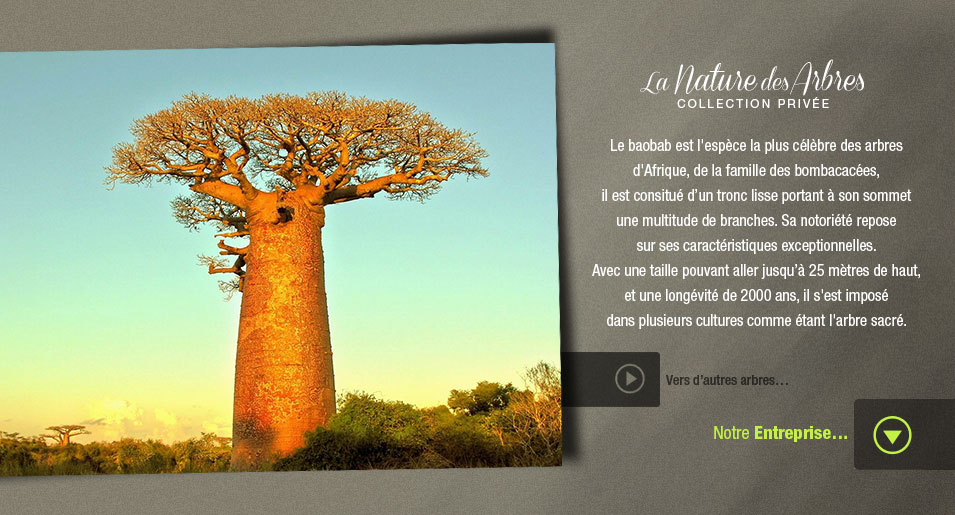
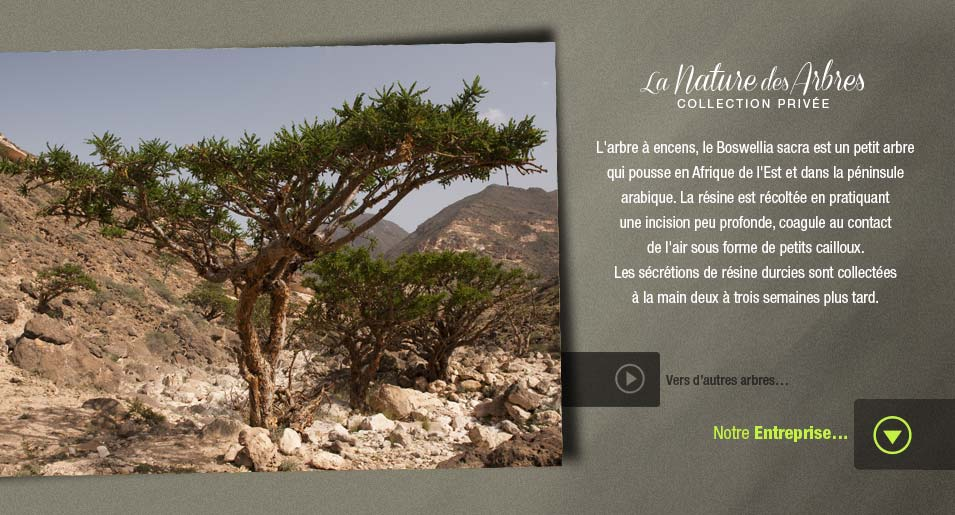
Changement visuel accueil

diff --git a/index.html b/index.html
@@ -28,6 +28,9 @@
       <div id="myCarousel" class="carousel slide">
         <div class="carousel-inner">
     <div class="active item">
+      <div style="background: url('assets/img/visu3.jpg'); width: 955px; height: 515px"></div>
+    </div>
+    <div class="item">
       <div style="background: url('assets/img/visu11.jpg'); width: 955px; height: 515px"></div>
     </div>
     <div class="item">
@@ -39,20 +42,11 @@
     <div class="item">
       <div style="background: url('assets/img/visu9.jpg'); width: 955px; height: 515px"></div>
     </div>
-    <div class="item">
-      <div style="background: url('assets/img/visu8.jpg'); width: 955px; height: 515px"></div>
-    </div>
+	  <div class="item">
+	    <div style="background: url('assets/img/visu8.jpg'); width: 955px; height: 515px"></div>
+	  </div>
 	  <div class="item">
 	    <div style="background: url('assets/img/visu7.jpg'); width: 955px; height: 515px"></div>
-	  </div>
-	  <div class="item">
-	    <div style="background: url('assets/img/visu5.jpg'); width: 955px; height: 515px"></div>
-	  </div>
-	  <div class="item">
-	    <div style="background: url('assets/img/visu4.jpg'); width: 955px; height: 515px"></div>
-	  </div>
-	  <div class="item">
-	    <div style="background: url('assets/img/visu3.jpg'); width: 955px; height: 515px"></div>
 	  </div>
         </div>
       </div>
